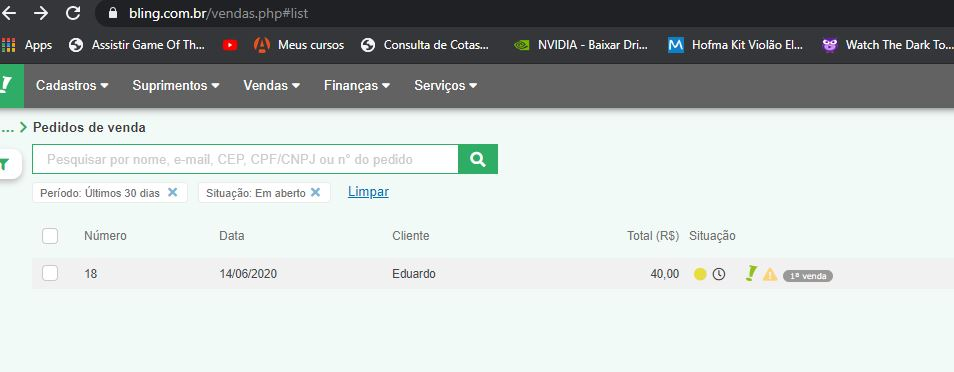
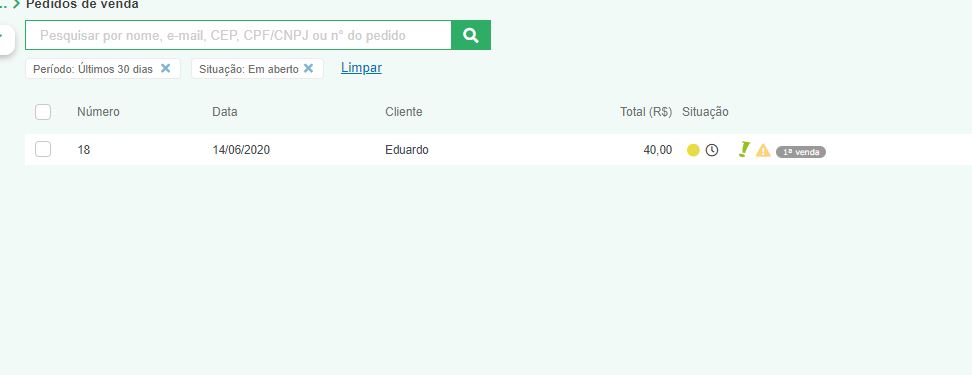
readme upd

diff --git a/README.md b/README.md
@@ -22,8 +22,10 @@ Integração das plataformas Pipedrive e Bling com NodeJS
   <li>Rodando a aplicação com o srcipt: "yarn dev:server" e rodando na url http://localhost:3333/addtobling com o método POST <p>
   <img src="./src/img/insomnia.JPG">
   <li>Os deals com o status igual a "won/ganho" são automáticamente adicionados como pedido no Bling</li>
+  <li>O valor aparece no total como 40R$ porque forma adicionados dois itens na ordem de venda</li>
   <img src="./src/img/bling.JPG">
 </ul>
 <h3>Para ultilizar o endpoint, basta mudar o médoto para GET, que então os dados salvos no banco de dados serão mostrados em json</h3>
 <img src="./src/img/endpoint.JPG">
+<h3>Dados salvos no baco</h3>
 <img src="./src/img/mongodb.JPG">
